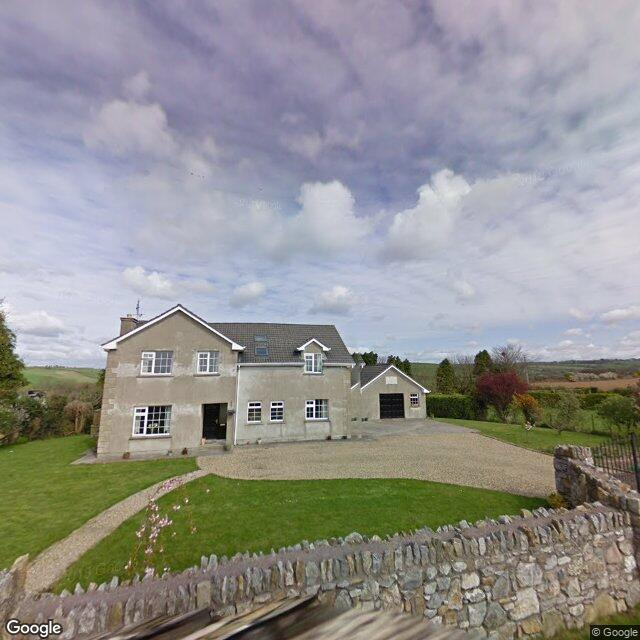
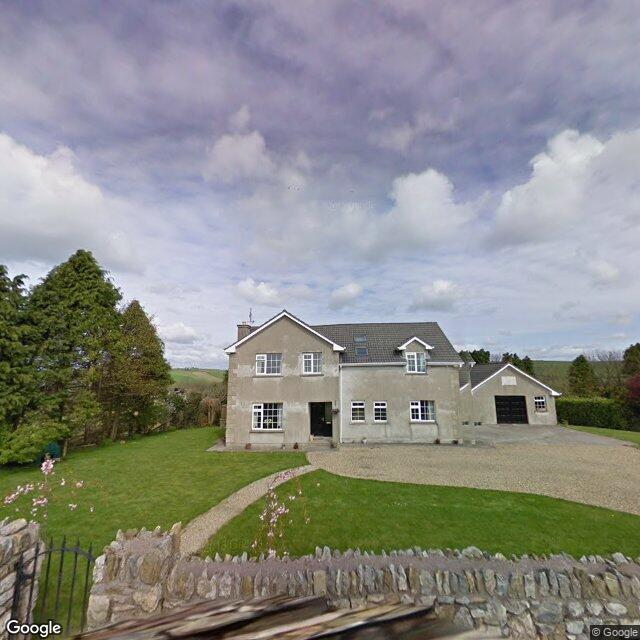
vision changes

diff --git a/ber_automation/geospatial/imagery.py b/ber_automation/geospatial/imagery.py
@@ -7,6 +7,7 @@ from pathlib import Path
 import httpx
 
 from ber_automation.config import get_settings
+from ber_automation.geospatial.scale import initial_bearing
 from ber_automation.models import Coordinates
 
 STATIC_MAP_URL = "https://maps.googleapis.com/maps/api/staticmap"
@@ -57,7 +58,7 @@ async def fetch_satellite_image(
 async def fetch_streetview_image(
     coords: Coordinates,
     output_path: str | Path,
-    heading: int = 0,
+    heading: float | None = None,
     fov: int | None = None,
     pitch: int | None = None,
     size: str | None = None,
@@ -67,7 +68,8 @@ async def fetch_streetview_image(
     Args:
         coords: GPS coordinates.
         output_path: File path to save the image.
-        heading: Camera heading (0-360 degrees).
+        heading: Camera heading in degrees (0-360). When *None* (default) the
+            heading is auto-computed from the camera position to *coords*.
         fov: Field of view (default from settings).
         pitch: Camera pitch (default from settings).
         size: Image size as "WxH".
@@ -93,6 +95,14 @@ async def fetch_streetview_image(
 
     if meta.get("status") != "OK":
         return None
+
+    # Auto-compute heading from camera position to target building
+    if heading is None:
+        cam = meta.get("location")
+        if cam and "lat" in cam and "lng" in cam:
+            heading = initial_bearing(cam["lat"], cam["lng"], coords.lat, coords.lng)
+        else:
+            heading = 0
 
     params = {
         "location": location,

diff --git a/ber_automation/geospatial/scale.py b/ber_automation/geospatial/scale.py
@@ -41,3 +41,28 @@ def meters_to_pixels(meters: float, lat: float, zoom: int) -> float:
     if mpp == 0:
         return 0.0
     return meters / mpp
+
+
+def initial_bearing(lat1: float, lng1: float, lat2: float, lng2: float) -> float:
+    """Compute the initial (forward) geodesic bearing from point 1 to point 2.
+
+    Uses the spherical law formula. Returns a bearing in degrees [0, 360).
+
+    Args:
+        lat1: Latitude of the origin point (degrees).
+        lng1: Longitude of the origin point (degrees).
+        lat2: Latitude of the destination point (degrees).
+        lng2: Longitude of the destination point (degrees).
+
+    Returns:
+        Bearing in degrees, 0 = North, 90 = East, etc.
+    """
+    φ1 = math.radians(lat1)
+    φ2 = math.radians(lat2)
+    Δλ = math.radians(lng2 - lng1)
+
+    x = math.sin(Δλ) * math.cos(φ2)
+    y = math.cos(φ1) * math.sin(φ2) - math.sin(φ1) * math.cos(φ2) * math.cos(Δλ)
+
+    θ = math.degrees(math.atan2(x, y))
+    return θ % 360
